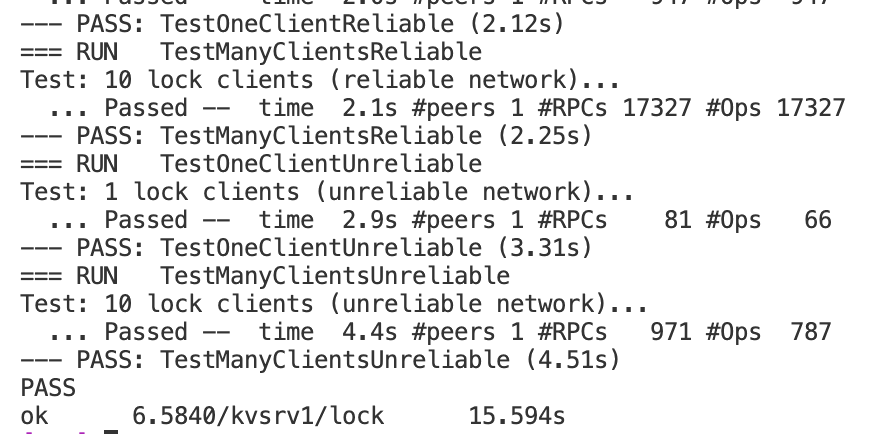
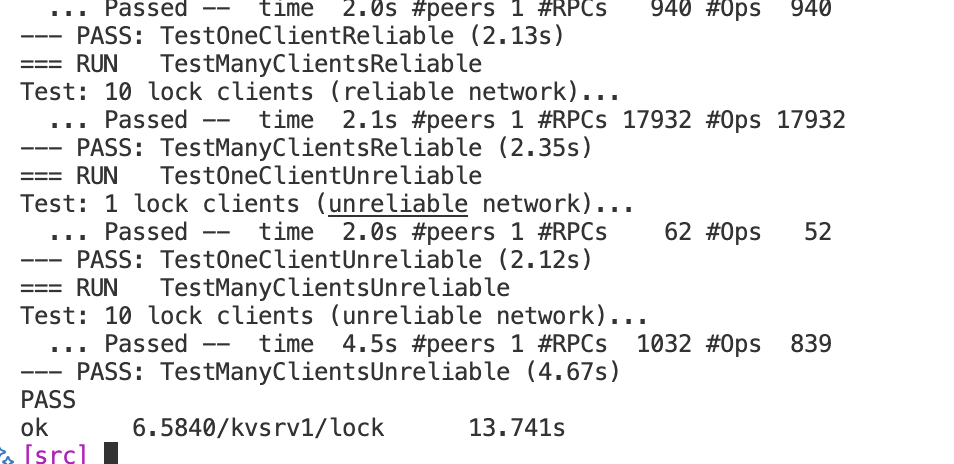
fix Release()

Changed region(s): [[0.0, 0.0, 0.9841, 1.0], [0.492, 0.8986, 0.6458, 0.9885]]

diff --git a/src/kvsrv1/lock/lock.go b/src/kvsrv1/lock/lock.go
@@ -53,6 +53,16 @@ func (lk *Lock) Release() {
 	// Your code here
 	lid, ver, err := lk.ck.Get(lk.lockname)
 	if err == rpc.OK && lid == lk.id {
-		err = lk.ck.Put(lk.lockname, unlock, ver)
+		for {
+			err = lk.ck.Put(lk.lockname, unlock, ver)
+			if err == rpc.ErrMaybe {
+				lid, _, err = lk.ck.Get(lk.lockname)
+				if err == rpc.OK && lid != lk.id {
+					return
+				}
+			} else {
+				return
+			}
+		}
 	}
 }